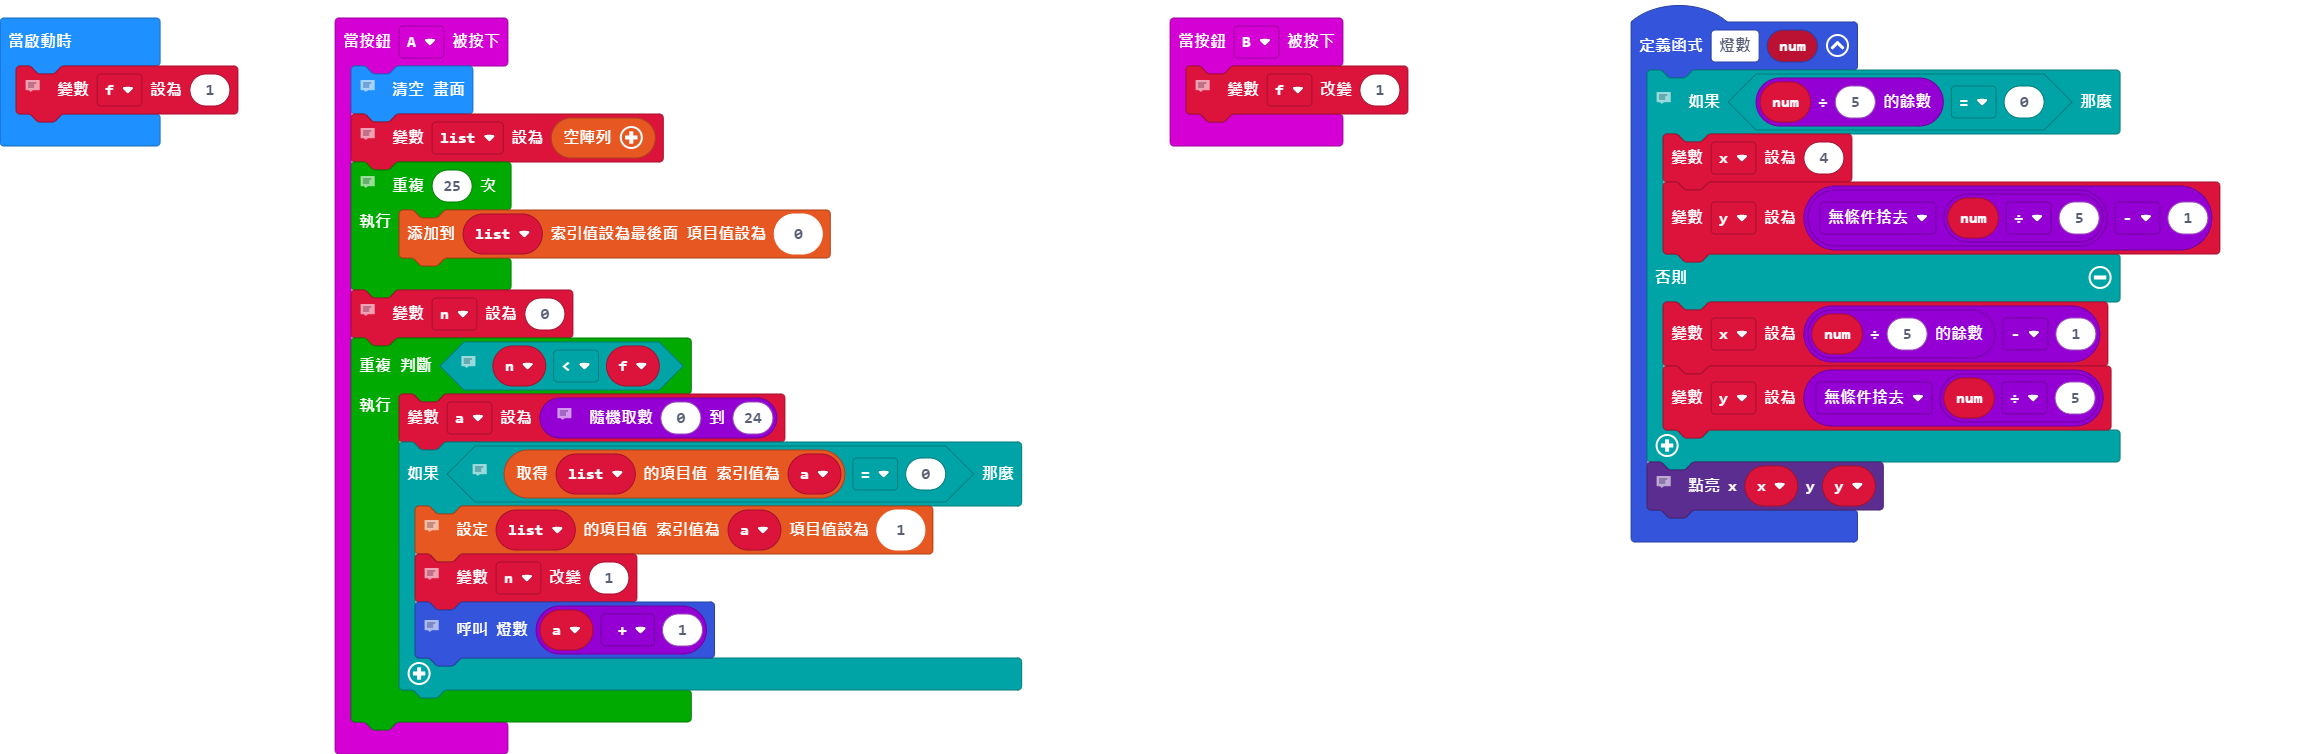
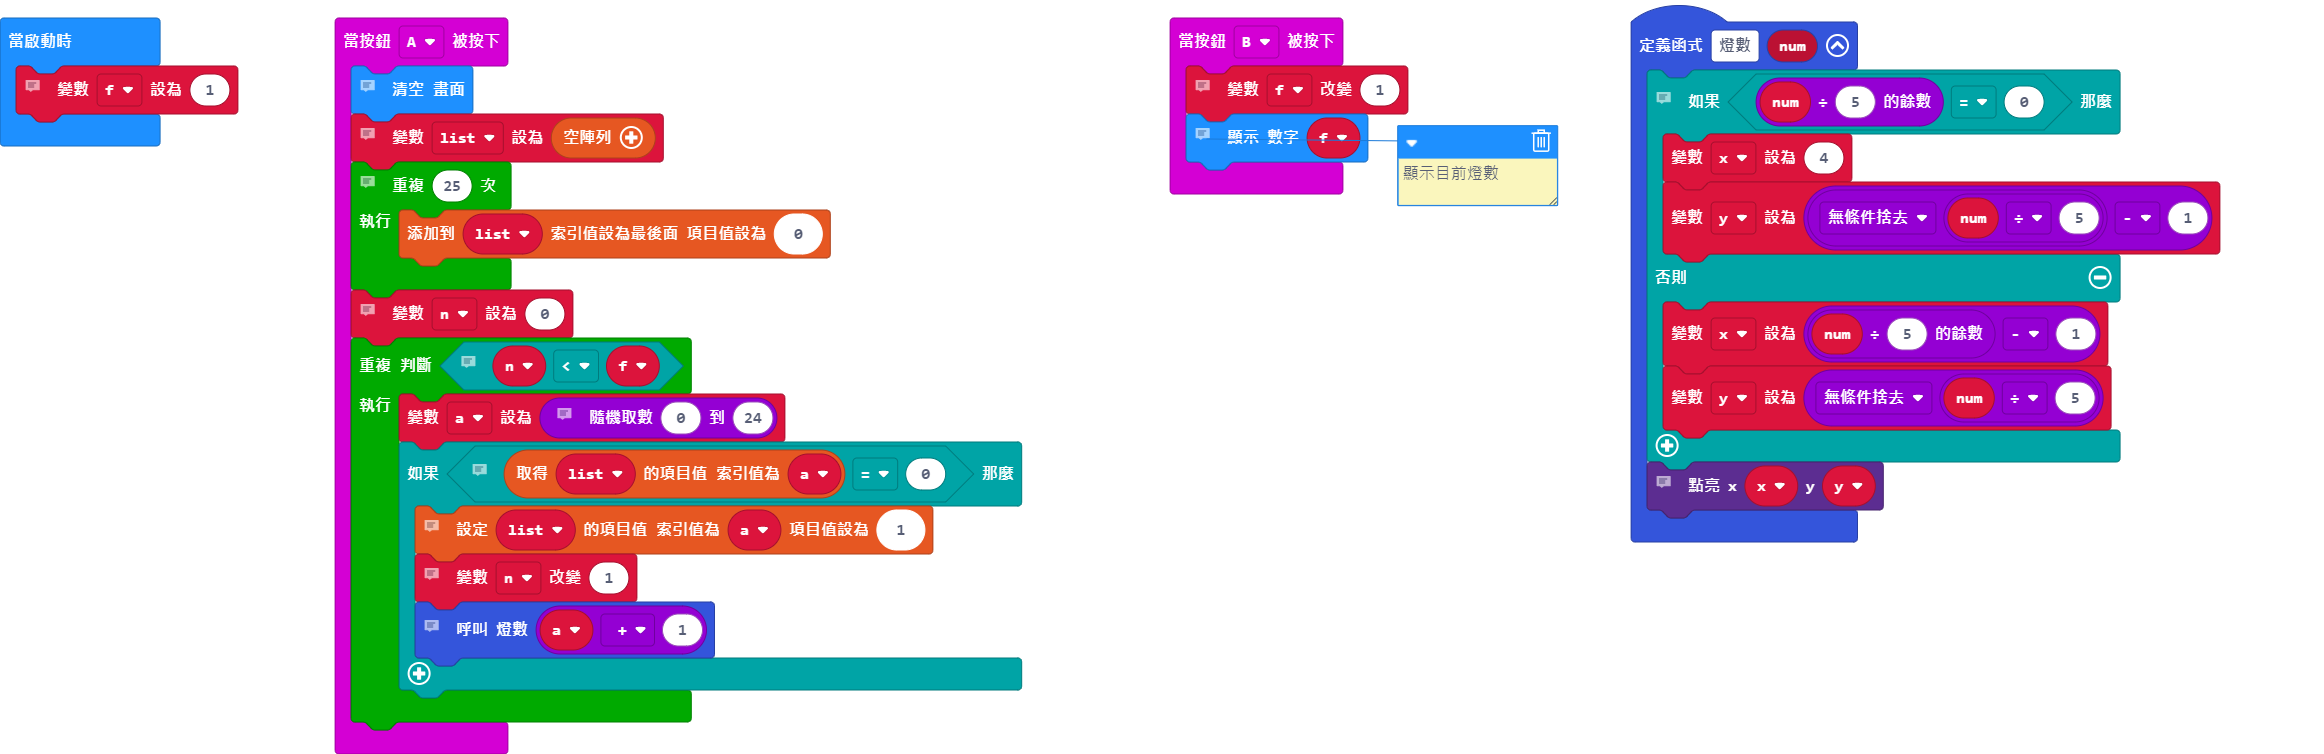
更新 main.blocks, main.ts

Changed region(s): [[0.4957, 0.1525, 0.6816, 0.2745]]

diff --git a/main.ts b/main.ts
@@ -41,6 +41,8 @@ input.onButtonPressed(Button.A, function () {
 input.onButtonPressed(Button.B, function () {
     // f由B被按下的次數決定
     f += 1
+    // 顯示目前燈數
+    basic.showNumber(f)
 })
 let a = 0
 let n = 0
